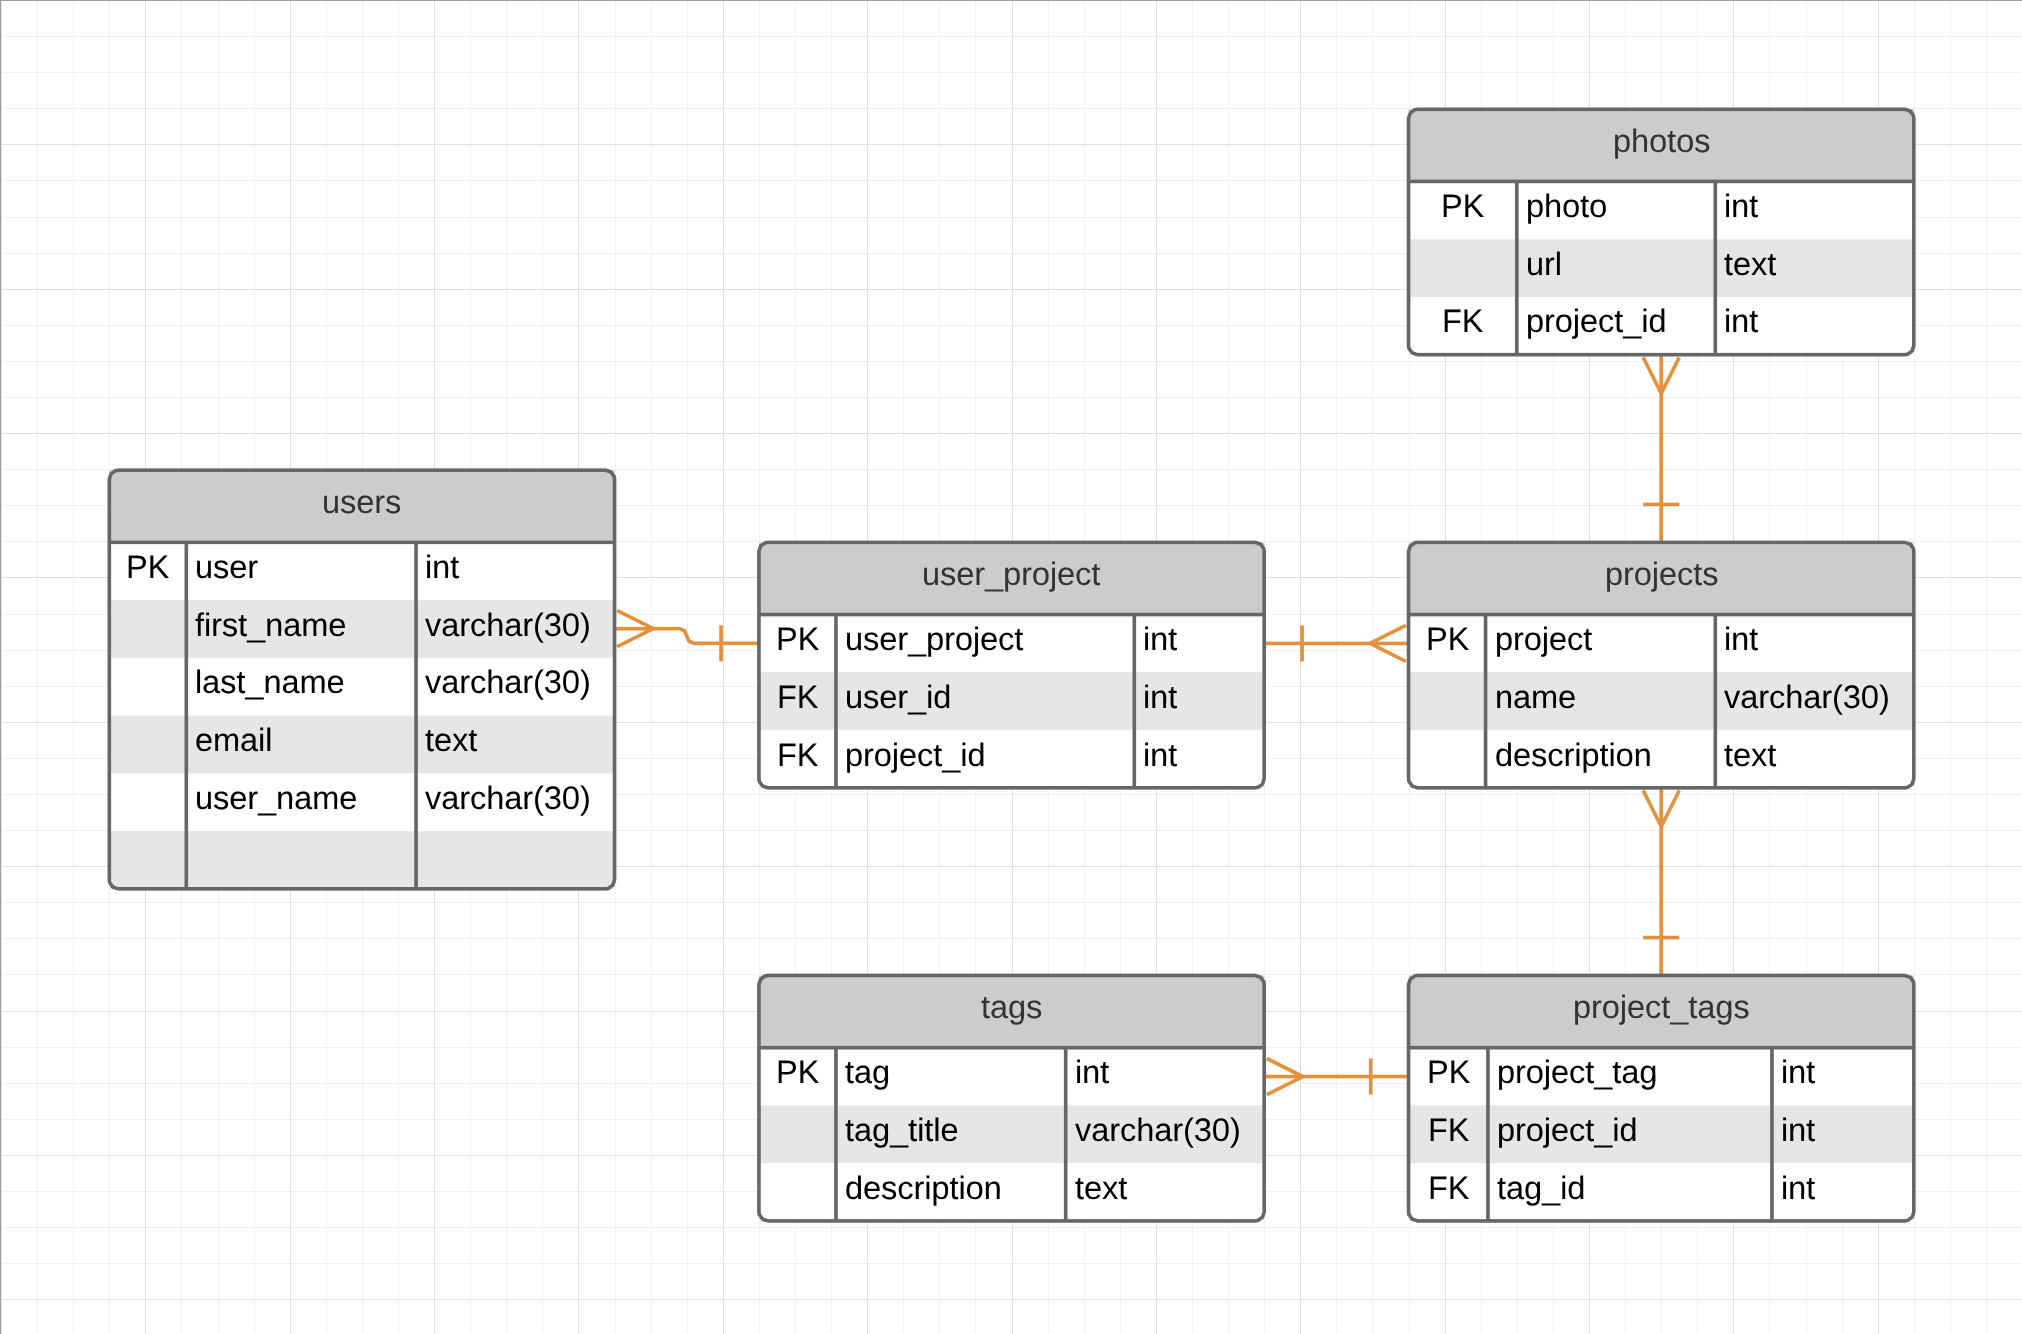
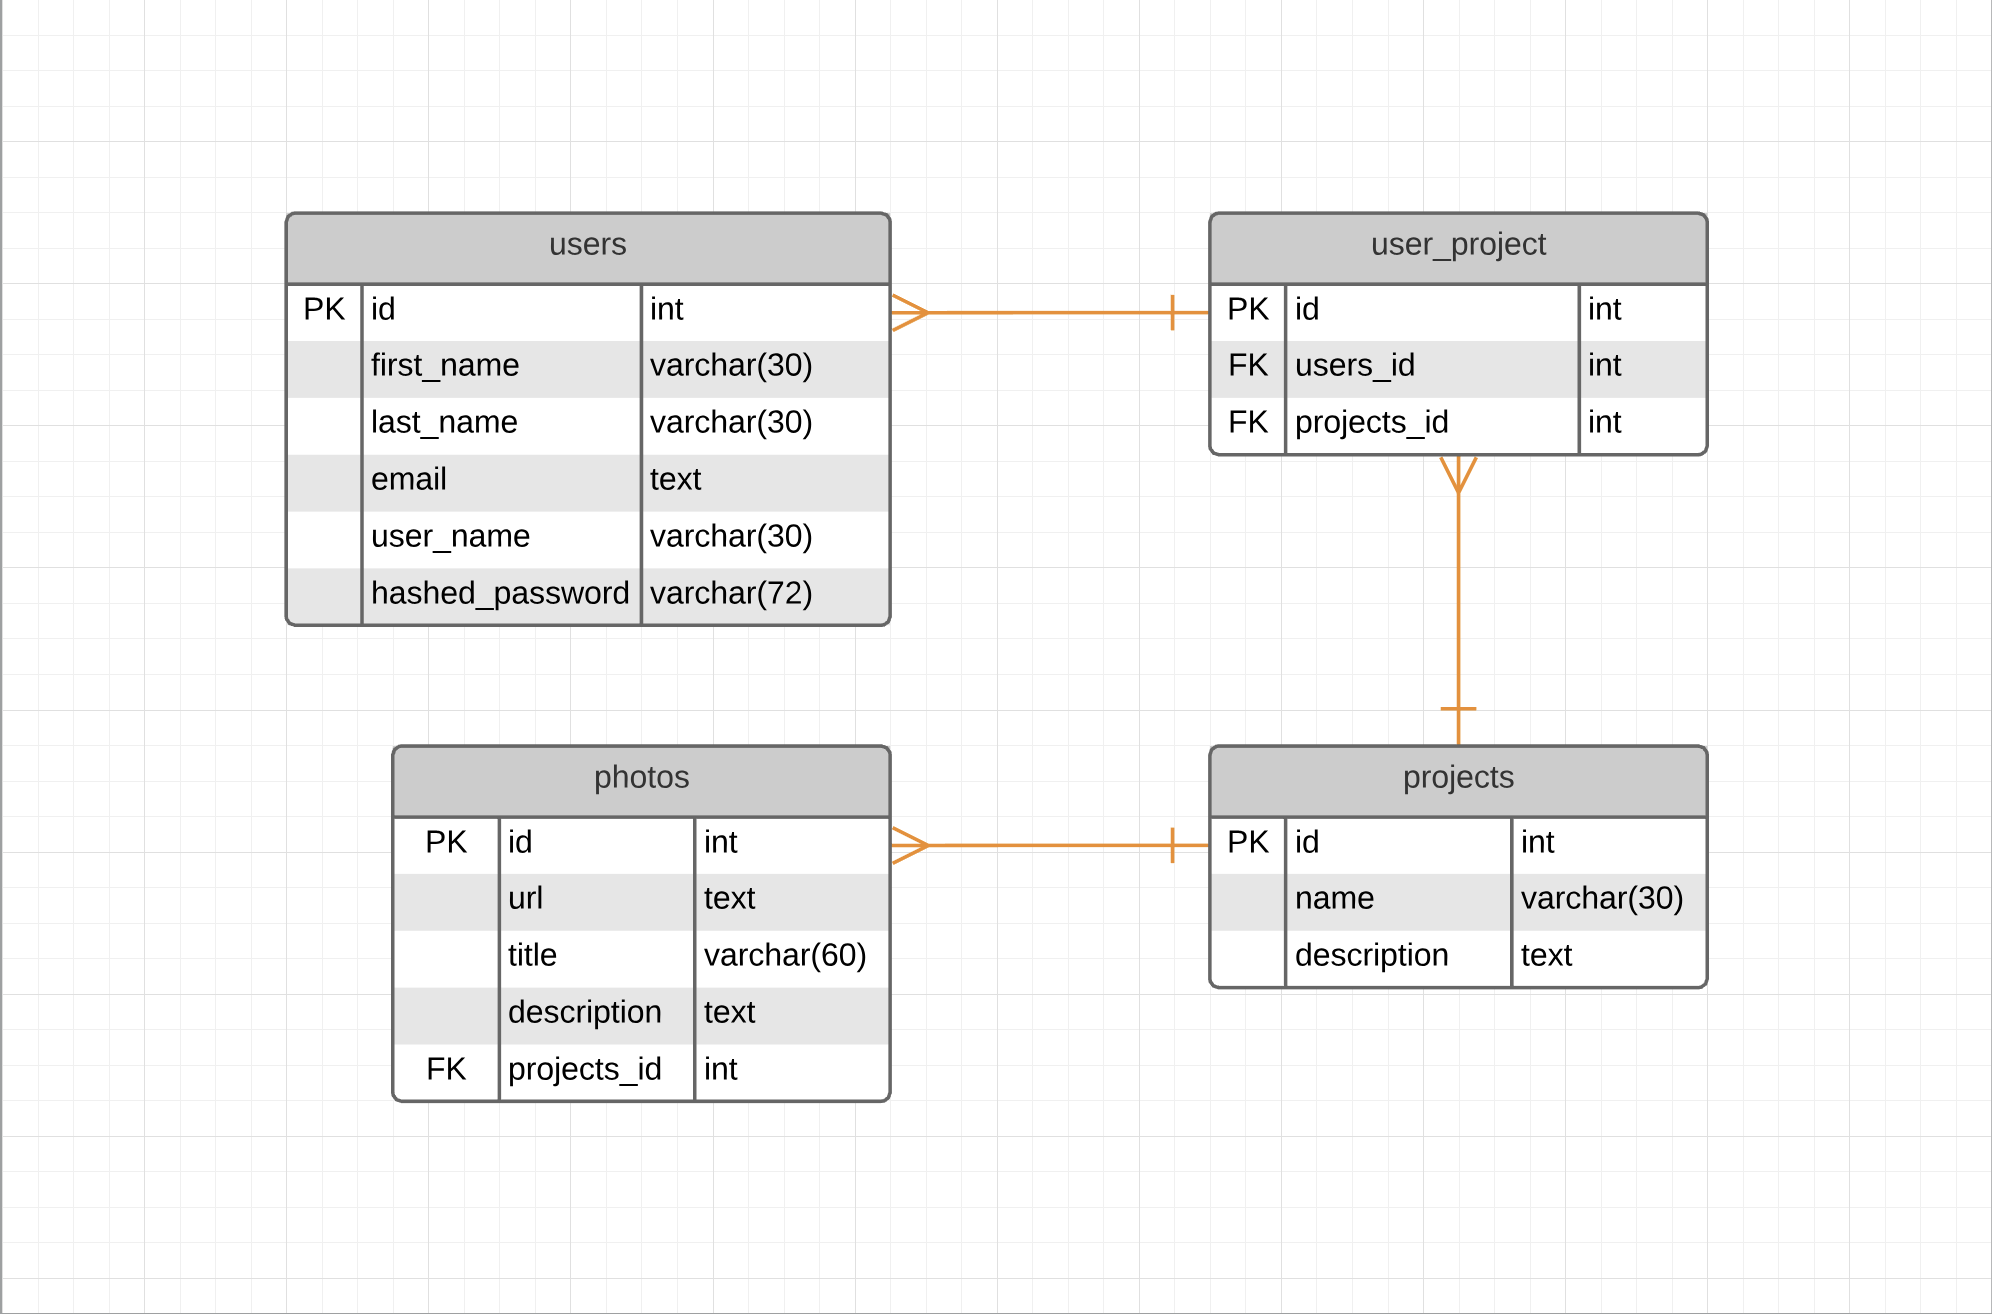
Update erd and create migration and seed files

diff --git a/db/seeds/001_users.js b/db/seeds/001_users.js
@@ -1,0 +1,13 @@
+
+exports.seed = function(knex, Promise) {
+  // Deletes ALL existing entries
+  return knex('table_name').del()
+    .then(function () {
+      // Inserts seed entries
+      return knex('table_name').insert([
+        {id: 1, colName: 'rowValue1'},
+        {id: 2, colName: 'rowValue2'},
+        {id: 3, colName: 'rowValue3'}
+      ]);
+    });
+};

diff --git a/db/seeds/002_projects.js b/db/seeds/002_projects.js
@@ -1,0 +1,13 @@
+
+exports.seed = function(knex, Promise) {
+  // Deletes ALL existing entries
+  return knex('table_name').del()
+    .then(function () {
+      // Inserts seed entries
+      return knex('table_name').insert([
+        {id: 1, colName: 'rowValue1'},
+        {id: 2, colName: 'rowValue2'},
+        {id: 3, colName: 'rowValue3'}
+      ]);
+    });
+};

diff --git a/db/seeds/003_photos.js b/db/seeds/003_photos.js
@@ -1,0 +1,13 @@
+
+exports.seed = function(knex, Promise) {
+  // Deletes ALL existing entries
+  return knex('table_name').del()
+    .then(function () {
+      // Inserts seed entries
+      return knex('table_name').insert([
+        {id: 1, colName: 'rowValue1'},
+        {id: 2, colName: 'rowValue2'},
+        {id: 3, colName: 'rowValue3'}
+      ]);
+    });
+};

diff --git a/db/seeds/004_user_project.js b/db/seeds/004_user_project.js
@@ -1,0 +1,13 @@
+
+exports.seed = function(knex, Promise) {
+  // Deletes ALL existing entries
+  return knex('table_name').del()
+    .then(function () {
+      // Inserts seed entries
+      return knex('table_name').insert([
+        {id: 1, colName: 'rowValue1'},
+        {id: 2, colName: 'rowValue2'},
+        {id: 3, colName: 'rowValue3'}
+      ]);
+    });
+};

diff --git a/db/migrations/001_users.js b/db/migrations/001_users.js
@@ -1,0 +1,8 @@
+
+exports.up = function(knex, Promise) {
+  
+};
+
+exports.down = function(knex, Promise) {
+  
+};

diff --git a/db/migrations/002_projects.js b/db/migrations/002_projects.js
@@ -1,0 +1,8 @@
+
+exports.up = function(knex, Promise) {
+  
+};
+
+exports.down = function(knex, Promise) {
+  
+};

diff --git a/db/migrations/003_photos.js b/db/migrations/003_photos.js
@@ -1,0 +1,8 @@
+
+exports.up = function(knex, Promise) {
+  
+};
+
+exports.down = function(knex, Promise) {
+  
+};

diff --git a/db/migrations/004_user_project.js b/db/migrations/004_user_project.js
@@ -1,0 +1,8 @@
+
+exports.up = function(knex, Promise) {
+  
+};
+
+exports.down = function(knex, Promise) {
+  
+};
